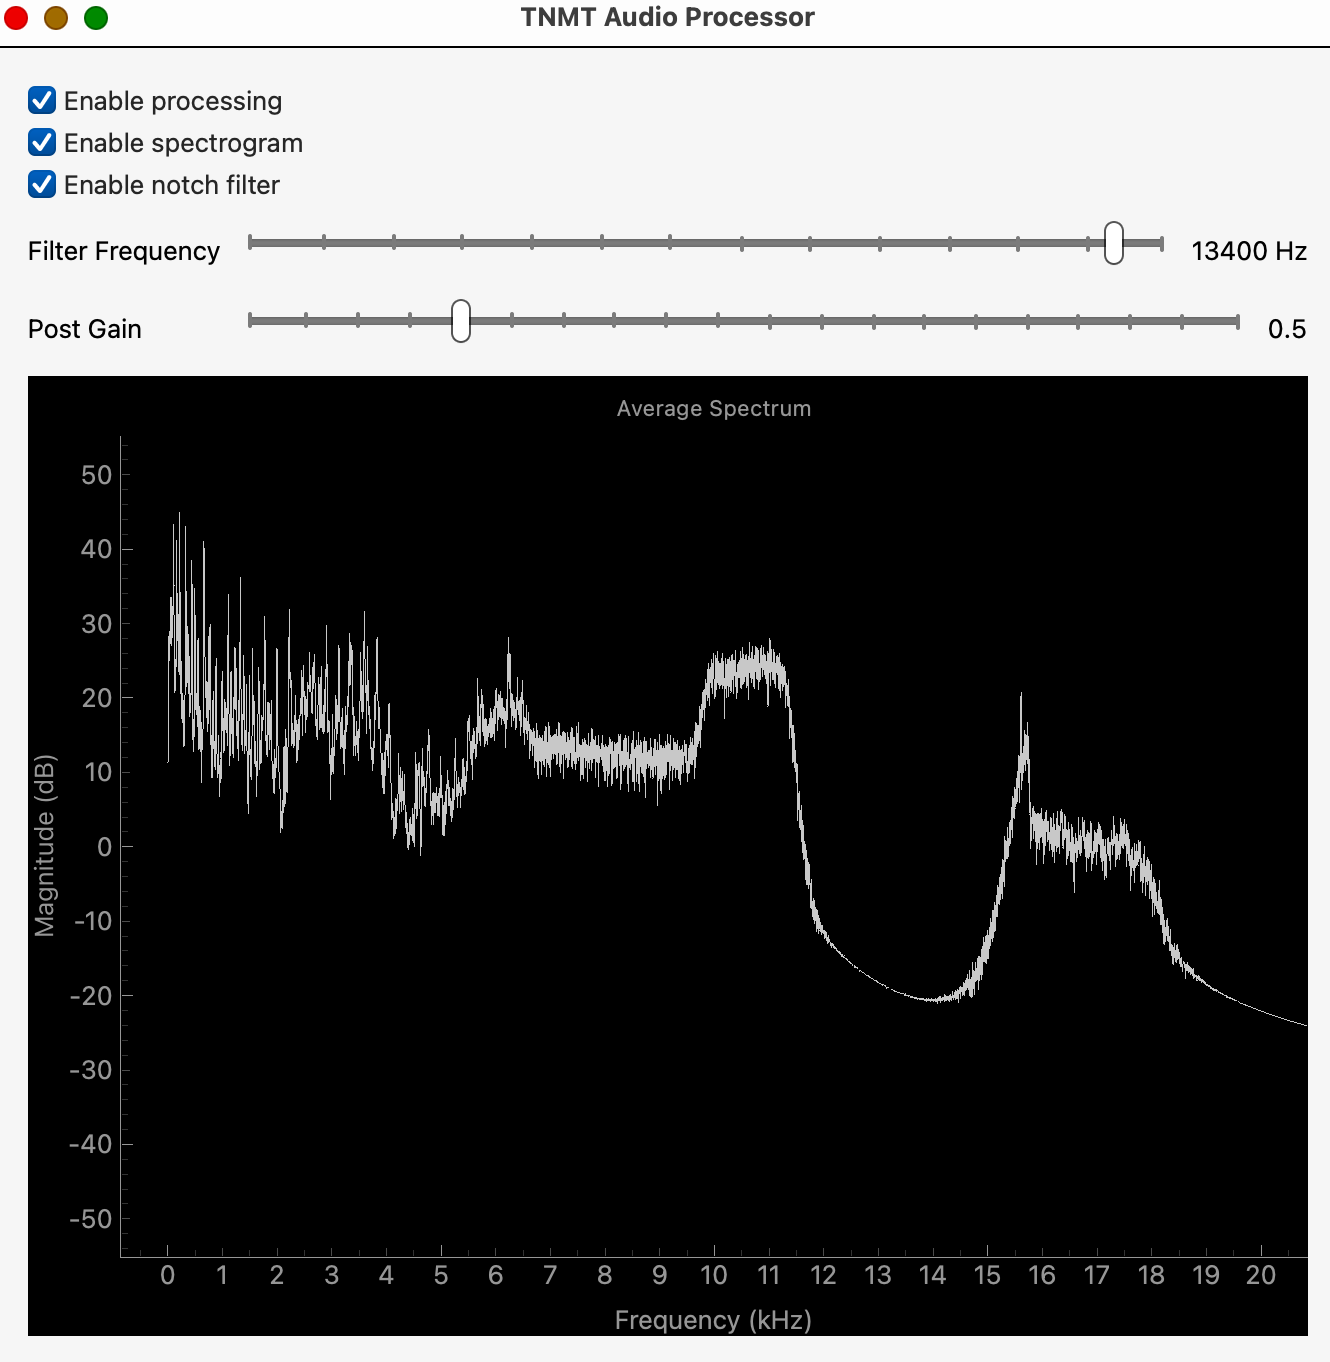
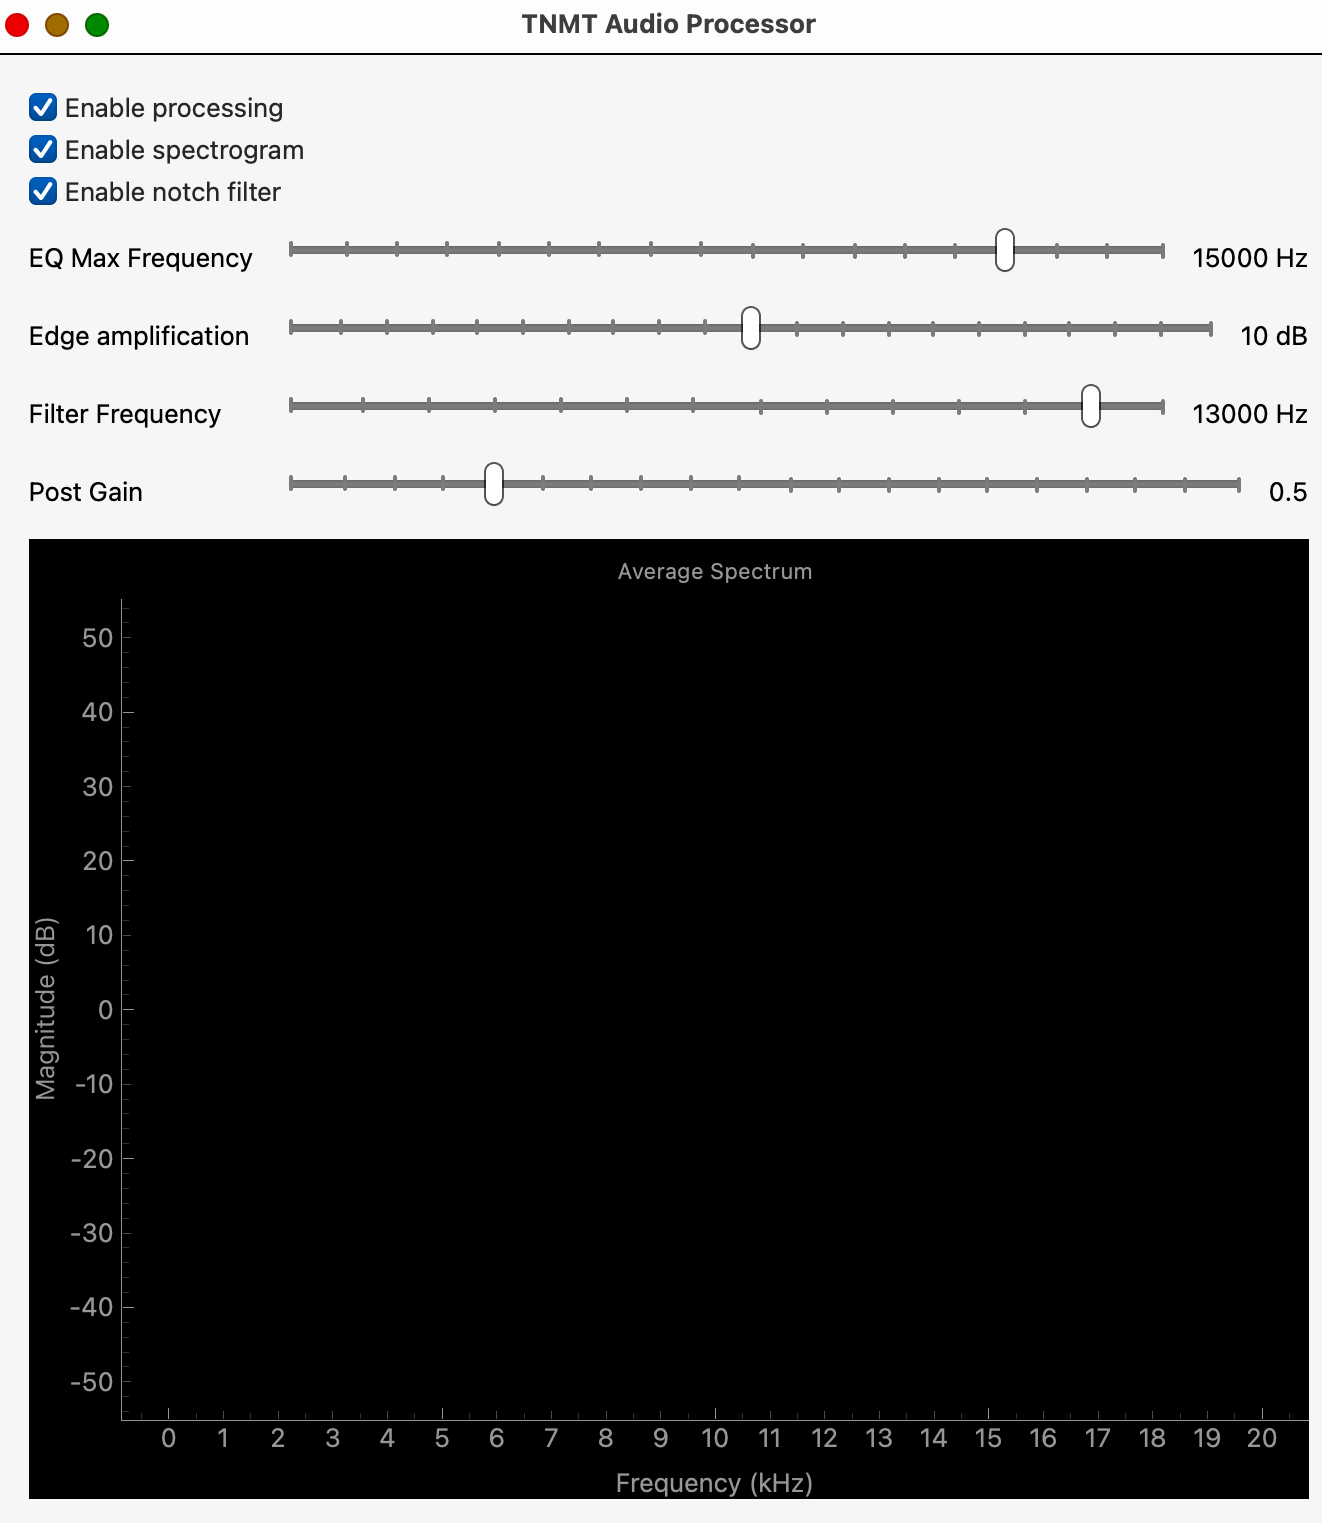
updated GUI with more controls

diff --git a/tnmt.py b/tnmt.py
@@ -54,8 +54,9 @@ use_fft = False
 notch_filter_enabled = True
 stereo_processing_enabled = True
 post_gain = 0.5
-notch_filter_frequency = 13400
-
+notch_filter_frequency = 13000
+edge_db_amp = 10
+eq_max_freq = 15000
 
 '''
 
@@ -167,6 +168,14 @@ class AudioProcessor:
         return filters
 
 
+    def update_eq_filters(self, min_freq, max_freq, num_bands):
+        self.num_bands = num_bands
+        self.max_freq = max_freq
+        self.min_freq = min_freq
+        
+        self.band_limits = np.logspace(np.log10(self.min_freq), np.log10(self.max_freq), self.num_bands + 1)
+        
+        self.eq_filters = self.get_eq_filters()
 
     def update_notch_edge_filters(self, notch_filter_frequency):
         
@@ -508,7 +517,7 @@ class DeviceSelectionWindow(QWidget):
         output_device = self.output_device_combo.currentIndex()
         block_size = int(self.block_size_combo.currentText())        
         
-        global audio_processor, post_gain, notch_filter_frequency, processing_enabled, notch_filter_enabled, stereo_processing_enabled
+        global audio_processor, post_gain, eq_max_freq, edge_db_amp, notch_filter_frequency, processing_enabled, notch_filter_enabled, stereo_processing_enabled
         devices = sd.query_devices()
         sampling_rate = devices[input_device]['default_samplerate']
         audio_processor = AudioProcessor(
@@ -520,9 +529,9 @@ class DeviceSelectionWindow(QWidget):
             stereo_processing_enabled=True,
             sampling_rate=sampling_rate,
             num_bands=12,
-            max_freq=18000,
+            max_freq=eq_max_freq,
             min_freq=20,
-            edge_amplification_dbs=10
+            edge_amplification_dbs=edge_db_amp
         )
         
         
@@ -545,6 +554,8 @@ class AudioProcessingApp(QWidget):
         self.start_audio()
 
     def initUI(self):
+        global processing_enabled, notch_filter_enabled, use_fft, notch_filter_frequency, eq_max_freq, edge_db_amp, post_gain, audio_processor
+        
         layout = QVBoxLayout()
         
         self.processing_checkbox = QCheckBox("Enable processing")   
@@ -574,6 +585,37 @@ class AudioProcessingApp(QWidget):
         self.notch_filter_checkbox.stateChanged.connect(self.toggle_notch_filter)
         layout.addWidget(self.notch_filter_checkbox)
         
+        # Add sliders for EQ min-max frequencies and edge dB amplification
+
+        eq_max_freq_layout = QHBoxLayout()
+        self.eq_max_freq_slider = QSlider(Qt.Horizontal)
+        self.eq_max_freq_slider.setRange(1000, 18000)
+        self.eq_max_freq_slider.setValue(eq_max_freq)
+        self.eq_max_freq_slider.setTickPosition(QSlider.TicksBelow)
+        self.eq_max_freq_slider.setTickInterval(1000)
+        self.eq_max_freq_slider.valueChanged.connect(self.update_eq_max_freq)
+        eq_max_freq_label = QLabel("EQ Max Frequency")
+        eq_max_freq_label.setFixedWidth(120)  # Set a fixed width for alignment
+        eq_max_freq_layout.addWidget(eq_max_freq_label)
+        eq_max_freq_layout.addWidget(self.eq_max_freq_slider)
+        self.eq_max_freq_label = QLabel(f"{eq_max_freq} Hz")
+        eq_max_freq_layout.addWidget(self.eq_max_freq_label)
+        layout.addLayout(eq_max_freq_layout)
+
+        edge_db_amp_layout = QHBoxLayout()
+        self.edge_db_amp_slider = QSlider(Qt.Horizontal)
+        self.edge_db_amp_slider.setRange(0, 20)
+        self.edge_db_amp_slider.setValue(edge_db_amp)
+        self.edge_db_amp_slider.setTickPosition(QSlider.TicksBelow)
+        self.edge_db_amp_slider.setTickInterval(1)
+        self.edge_db_amp_slider.valueChanged.connect(self.update_edge_db_amp)
+        edge_db_amp_label = QLabel("Edge amplification")
+        edge_db_amp_label.setFixedWidth(120)  # Set a fixed width for alignment
+        edge_db_amp_layout.addWidget(edge_db_amp_label)
+        edge_db_amp_layout.addWidget(self.edge_db_amp_slider)
+        self.edge_db_amp_label = QLabel(f"{edge_db_amp} dB")
+        edge_db_amp_layout.addWidget(self.edge_db_amp_label)
+        layout.addLayout(edge_db_amp_layout)
         
         notch_layout = QHBoxLayout()
         self.notch_filter_frequency_slider = QSlider(Qt.Horizontal)
@@ -583,7 +625,7 @@ class AudioProcessingApp(QWidget):
         self.notch_filter_frequency_slider.setTickInterval(1000)
         self.notch_filter_frequency_slider.valueChanged.connect(self.update_notch_filter_frequency_label)
         notch_label = QLabel("Filter Frequency")
-        notch_label.setFixedWidth(100)  # Set a fixed width for alignment
+        notch_label.setFixedWidth(120)  # Set a fixed width for alignment
         notch_layout.addWidget(notch_label)
         notch_layout.addWidget(self.notch_filter_frequency_slider)
         self.notch_filter_frequency_label = QLabel(f"{notch_filter_frequency} Hz")
@@ -598,7 +640,7 @@ class AudioProcessingApp(QWidget):
         self.post_gain_slider.setTickInterval(1)
         self.post_gain_slider.valueChanged.connect(self.update_post_gain_label)
         post_gain_label = QLabel("Post Gain")
-        post_gain_label.setFixedWidth(100)  # Set a fixed width for alignment
+        post_gain_label.setFixedWidth(120)  # Set a fixed width for alignment
         post_gain_layout.addWidget(post_gain_label)
         post_gain_layout.addWidget(self.post_gain_slider)
         self.post_gain_label = QLabel(f"{post_gain}")
@@ -631,6 +673,19 @@ class AudioProcessingApp(QWidget):
         processing_enabled = state == 2
         logging.info(f"Processing enabled: {processing_enabled}")
         audio_processor.processing_enabled = processing_enabled
+        
+    def update_eq_max_freq(self, value):
+        self.eq_max_freq_label.setText(f'{value} Hz')
+        logging.info(f"Max frequency set to: {value} Hz")
+        global eq_max_freq, audio_processor       
+        audio_processor.update_eq_filters(audio_processor.min_freq, value, audio_processor.num_bands)
+        
+
+    def update_edge_db_amp(self, value):
+        global edge_db_amp, audio_processor
+        self.edge_db_amp_label.setText(f'{value} dB')
+        logging.info(f"Edge amplification set to: {value} dB")
+        audio_processor.edge_amplification_dbs = value
         
     def update_notch_filter_frequency_label(self, value):
         global notch_filter_frequency, audio_processor
